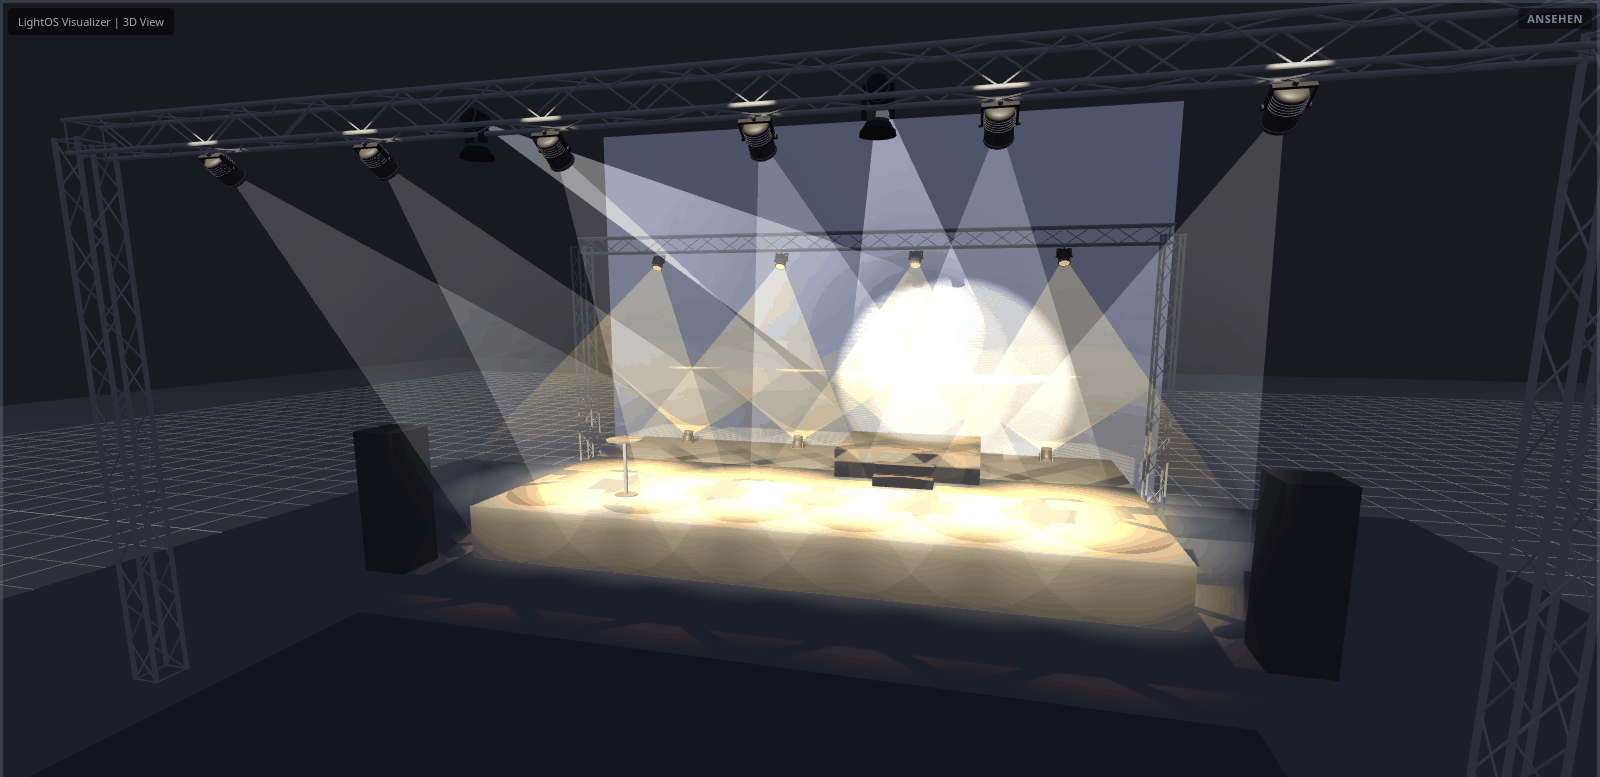
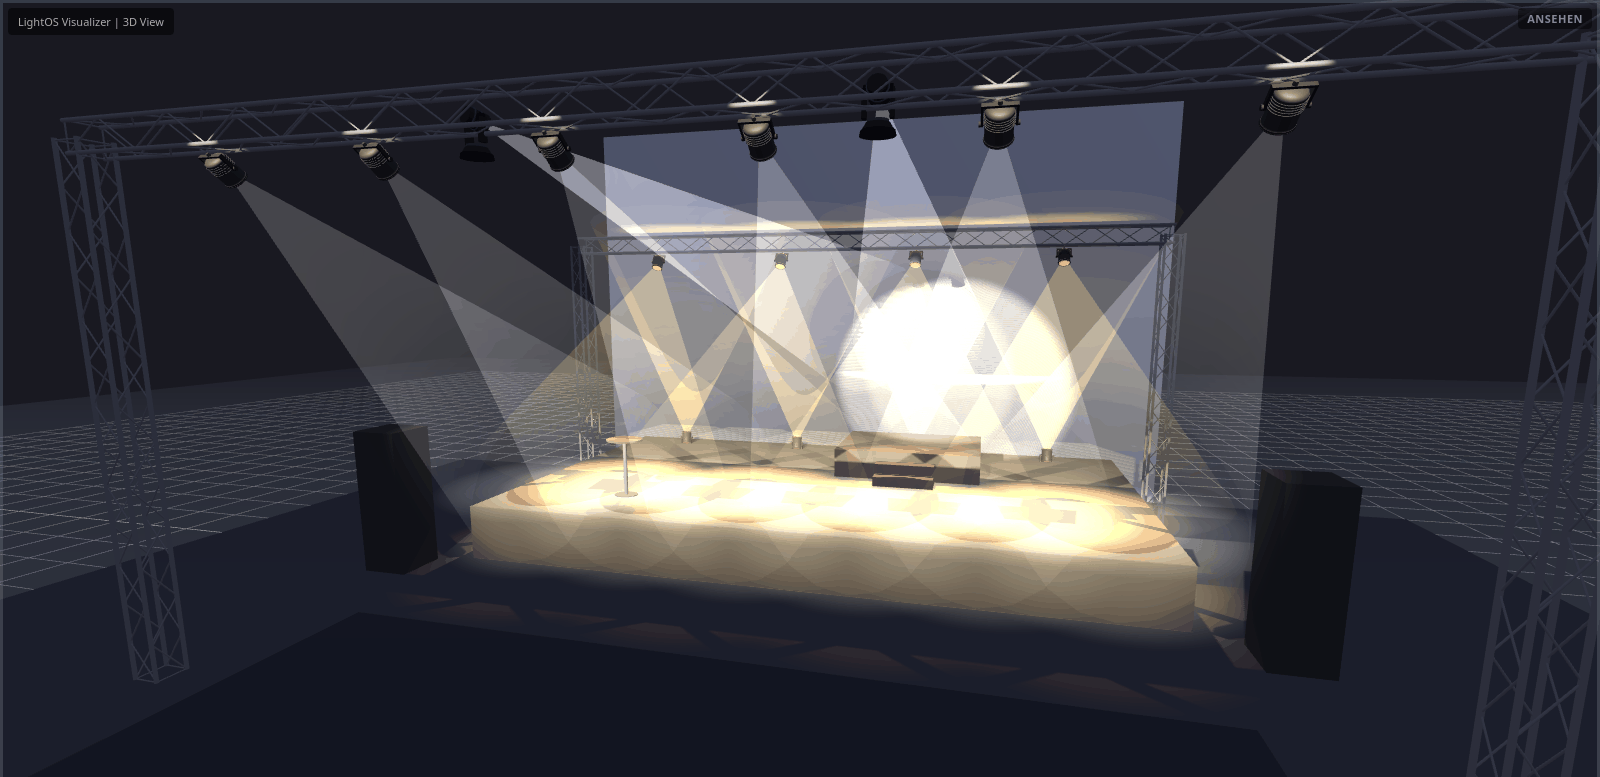
docs(demo): Horizont-Fluter steiler, Theater-Bilder neu (DEMO-07)
Die Fluter vor dem Horizont standen zu flach und trafen nur den unteren
Rand der Wand; jetzt waschen sie steil nach oben. Bild 4 und das GIF der
Theater-Anleitung neu aufgenommen.

Changed region(s): [[0.375, 0.2471, 0.7188, 0.5869]]

diff --git a/tools/build_showcase_theater.py b/tools/build_showcase_theater.py
@@ -114,8 +114,8 @@ def bauen(out: str, *, reset: bool = True) -> dict:
         pos[f] = (x, GEGEN_Y - KLEMME, GEGEN_Z)
         rot[f] = (-30.0, 0.0, 0.0)                   # von hinten oben nach vorn
     for f, x in zip(horizont, HORIZONT_X):
-        pos[f] = (x, BUEHNE_H + 0.15, HINTEN_Z + 0.5)
-        rot[f] = (160.0, 0.0, 0.0)                   # nach oben an den Horizont
+        pos[f] = (x, BUEHNE_H + 0.15, HINTEN_Z + 0.6)
+        rot[f] = (172.0, 0.0, 0.0)                   # steil nach oben, leicht an den Horizont
     for f, x in zip(spots, SPOT_X):
         pos[f] = (x, FOH_Y - KLEMME, FOH_Z - 0.2)
 
